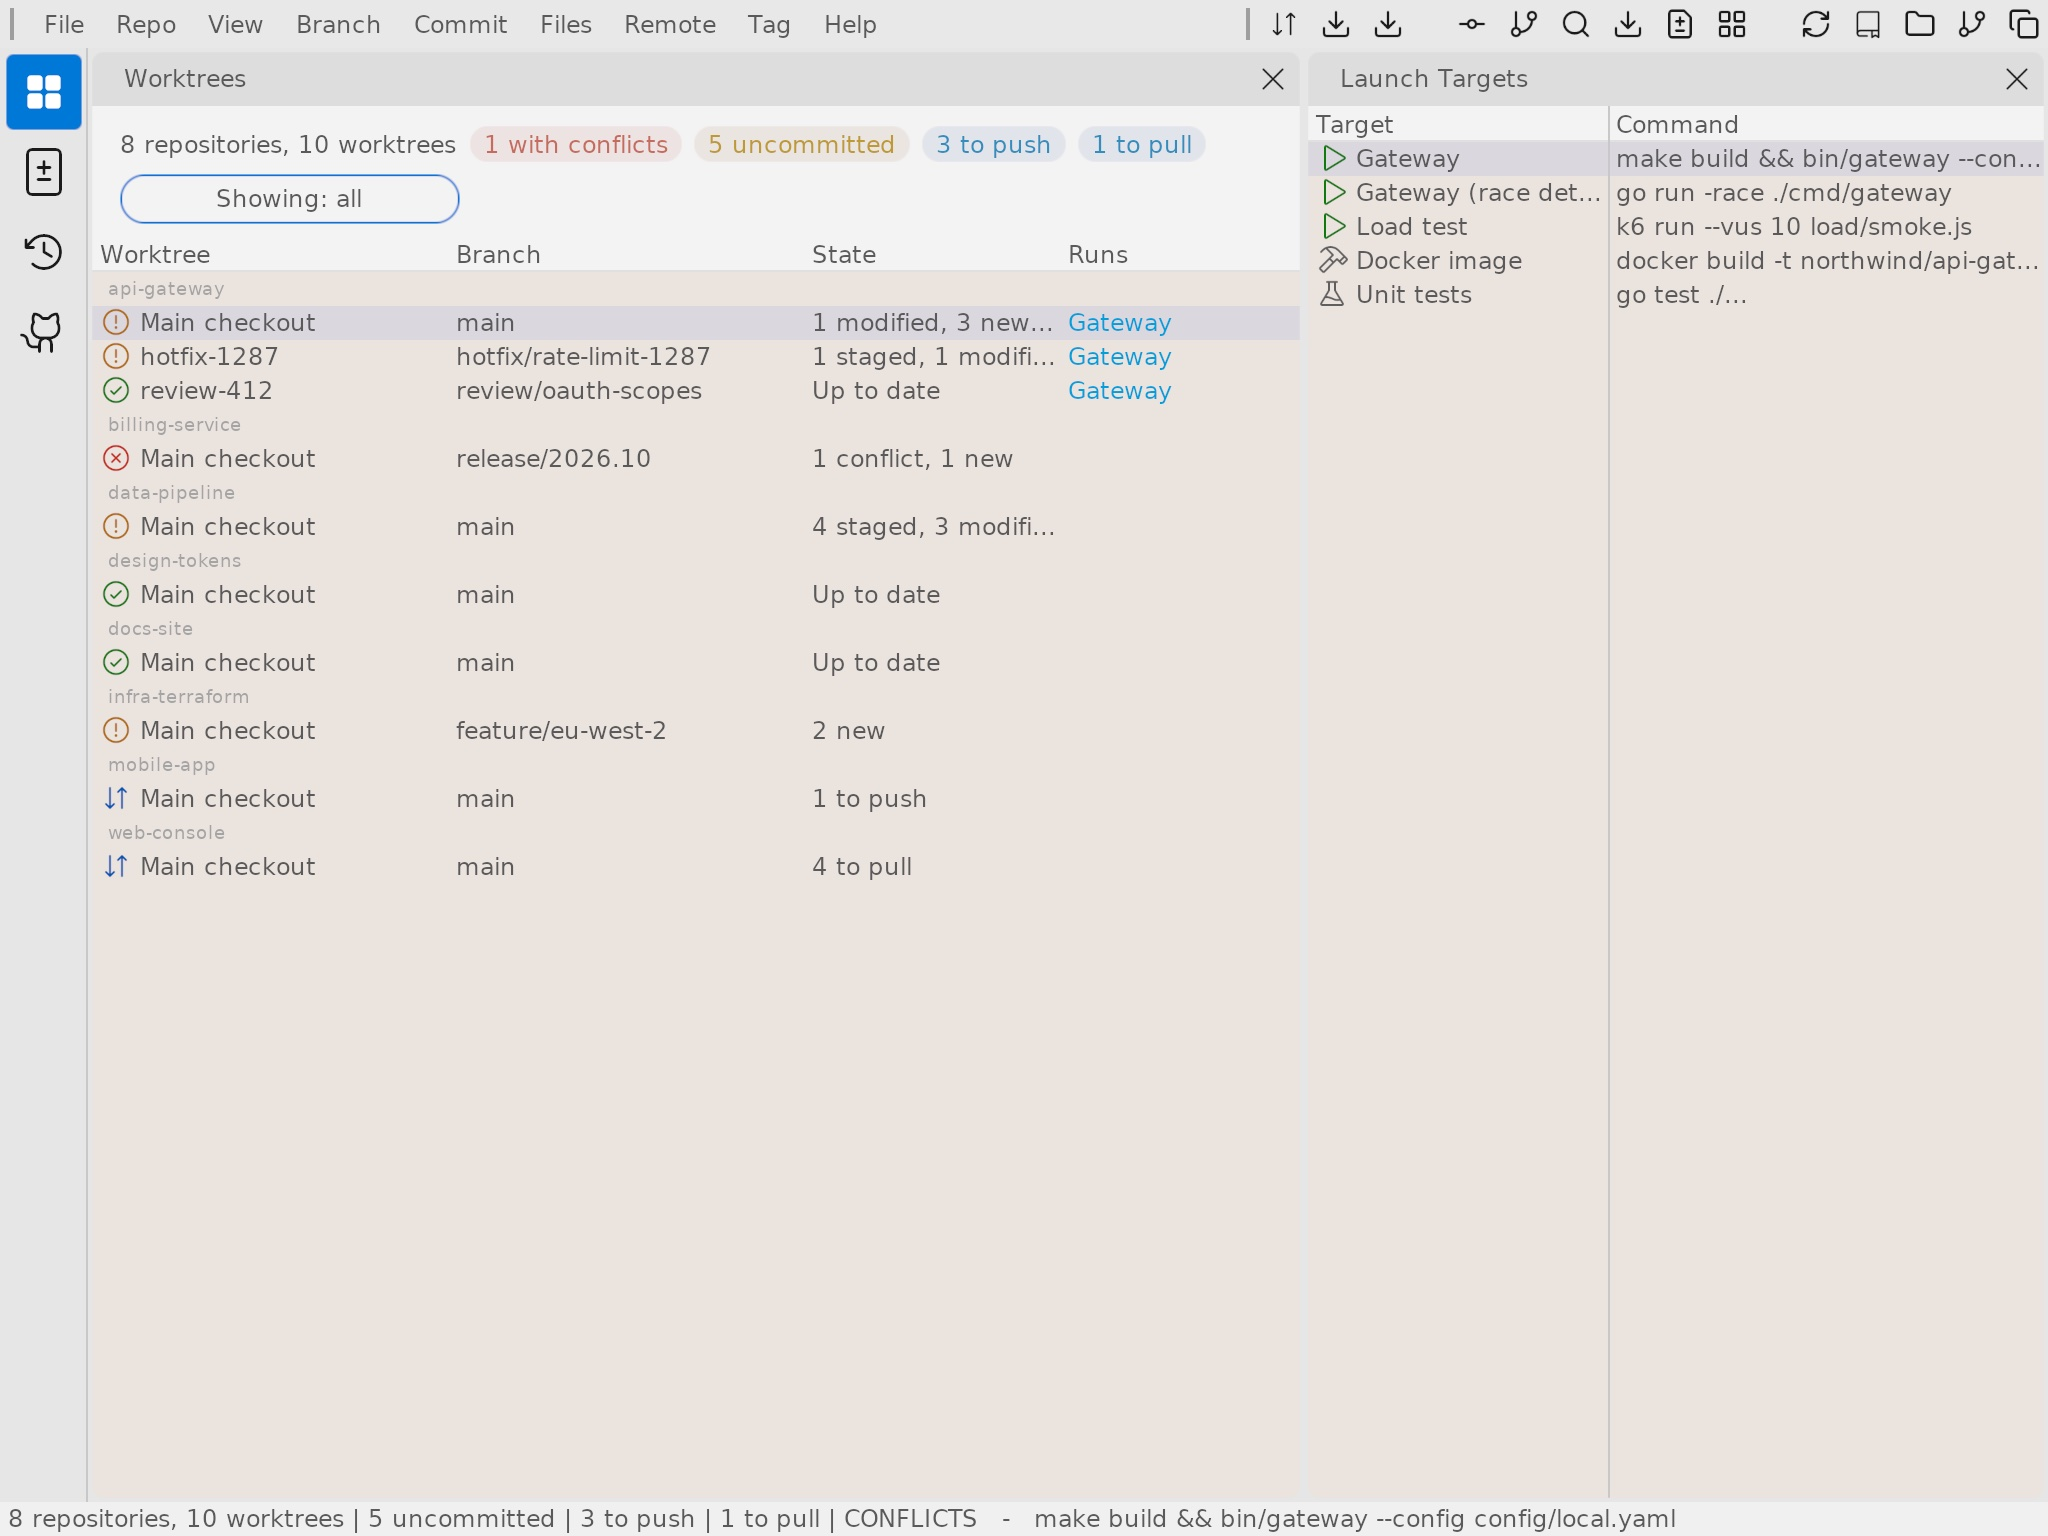
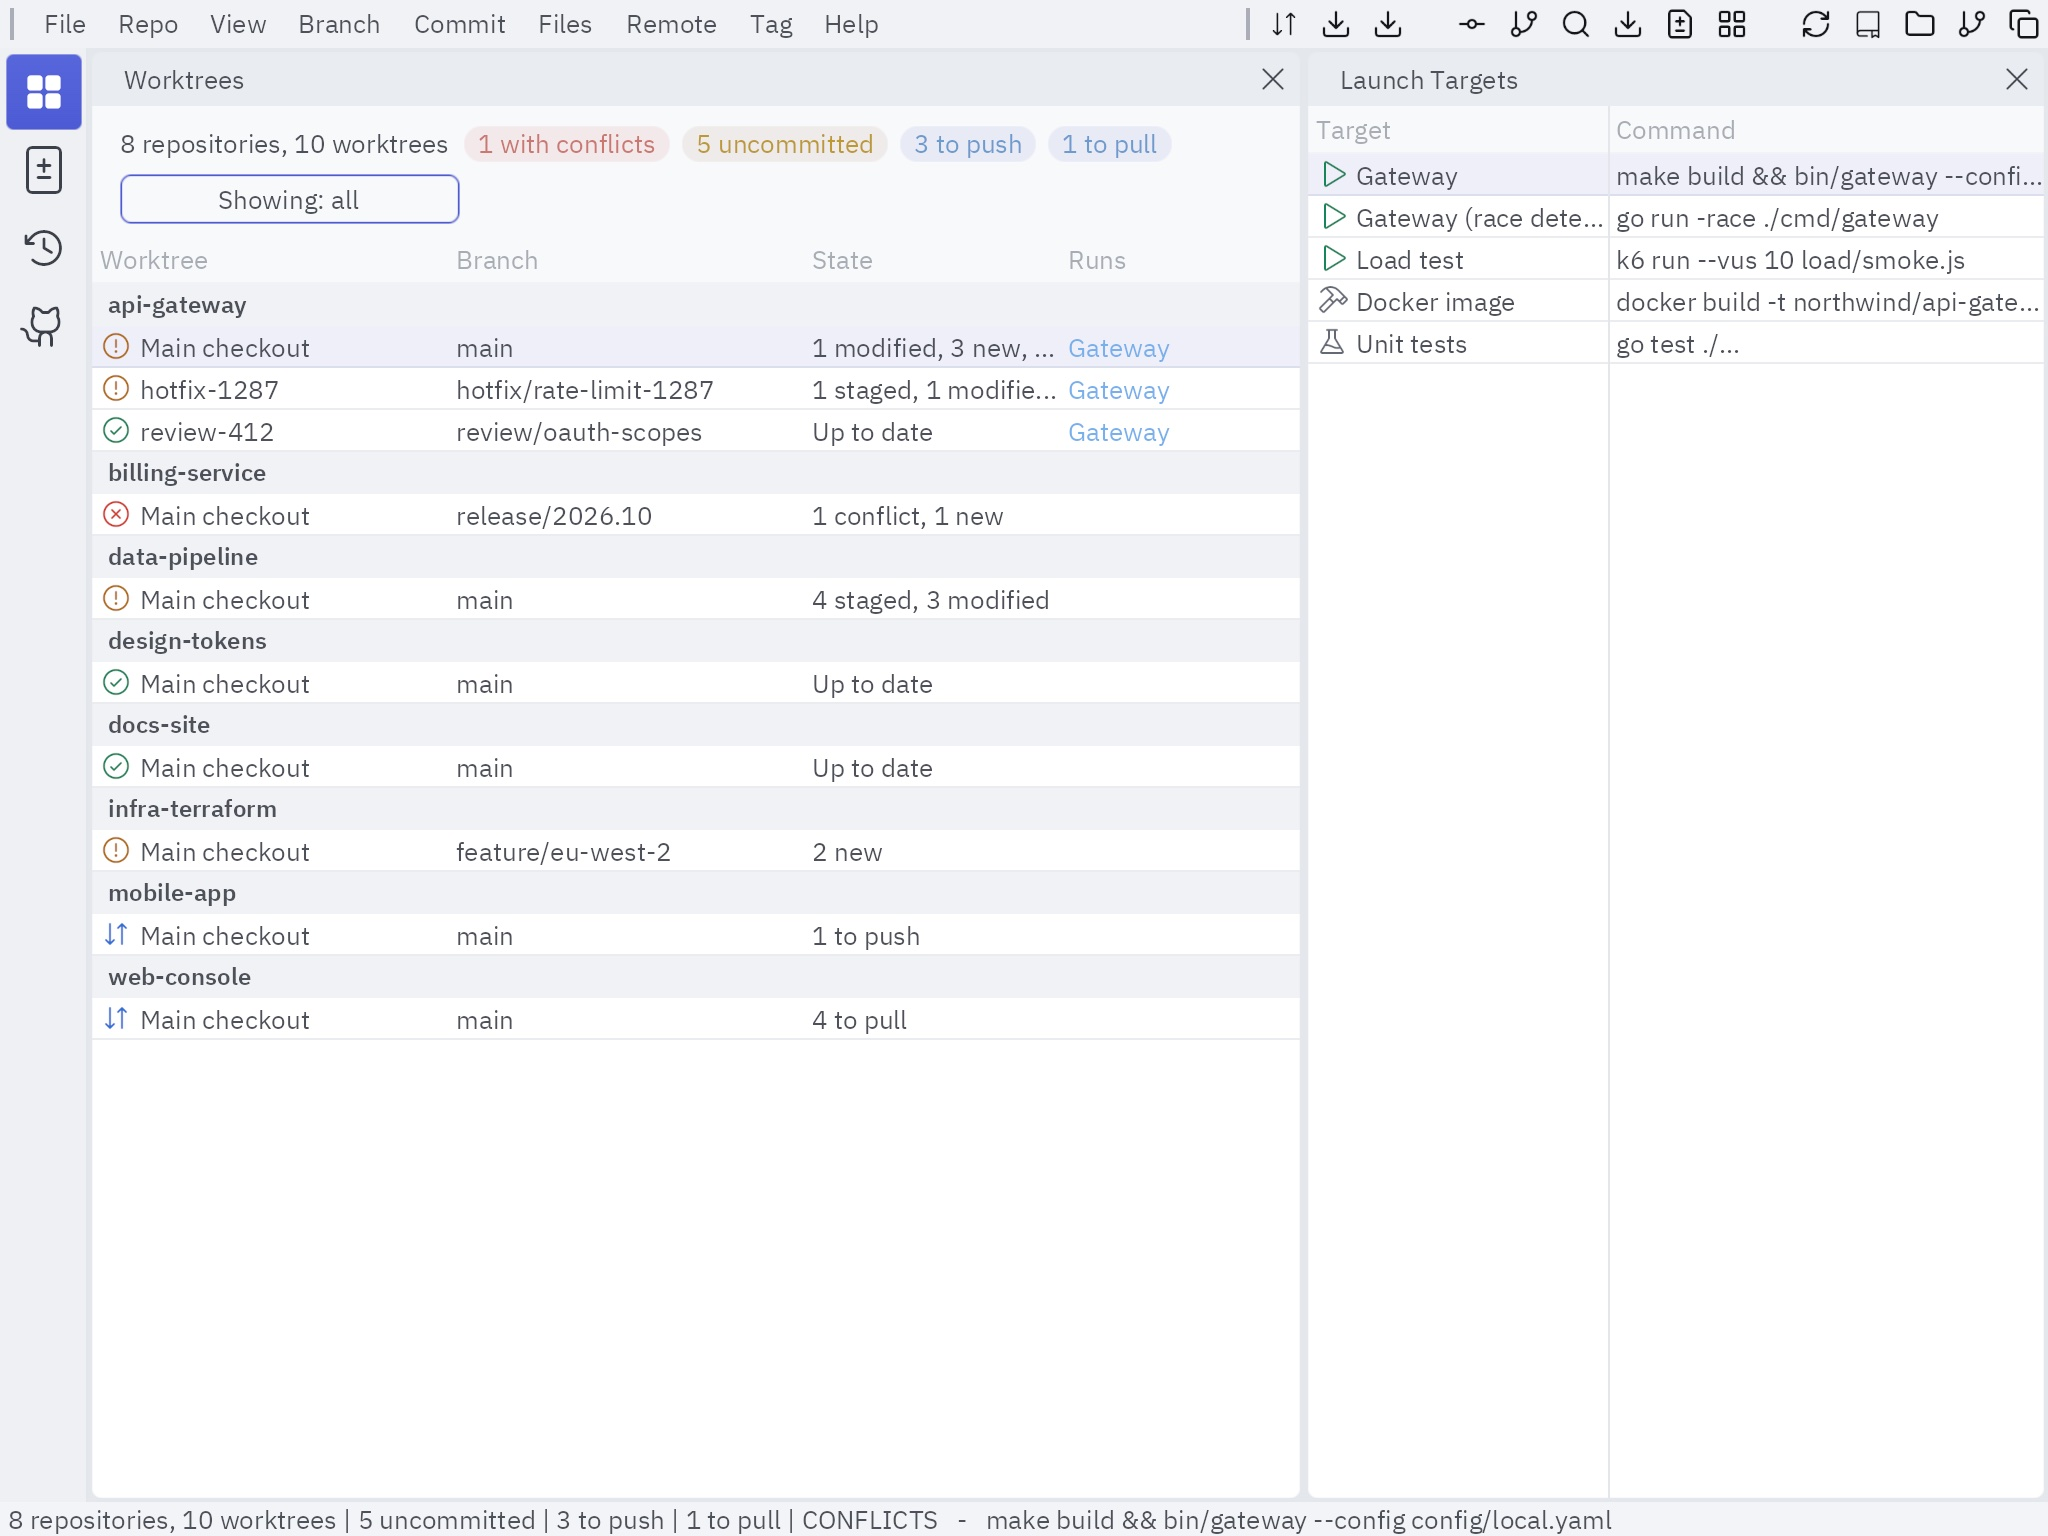
Polish Git Client on Porcelain: headed groups and quiet column titles
Git Client now builds with Porcelain (and Porcelain Dark by system
appearance) instead of the default Light palette's warm grey.

Two framework additions keep the styling in CSS: a FONT_HEADING text
role (--font-heading, IBM Plex Sans SemiBold 12 px; font="heading" in
.orion) and a TableView::group part (THEME_PART_LIST_GROUP) that paints
a grouped list's caption row and colours its text. ReportView draws
captions with them and takes its column-title colour from
TableView::header. Porcelain sets the group band, normal-ink headings
and secondary column titles; other themes keep secondary captions.

diff --git a/orion/themes/base.css b/orion/themes/base.css
@@ -92,6 +92,7 @@ Toolbar::grip   { content: grip; fill: var(--text-disabled); }
 TableView::header  { background: var(--control-bg); border-bottom: 1px solid var(--button-inner); }
 TableView::divider { background: var(--dark-edge); }
 TableView::divider:hover { background: var(--accent); }
+TableView::group   { color: var(--text-secondary); }
 TableView::row:hover   { background: var(--button-hover); }
 TableView::row:checked, TableView::row:active { background: var(--selection); }
 TableView::row:checked { color: var(--accent-text); }
@@ -167,4 +168,5 @@ Scrollbar::thumb:disabled { background: var(--text-disabled); }
   --font-smallest: 400 11px "IBM Plex Sans";   /* captions in dense views */
   --font-title:    600 18px "IBM Plex Sans";   /* a window title in its toolbar */
   --font-display:  600 24px "IBM Plex Sans";   /* the one figure a view exists to show */
+  --font-heading:  600 12px "IBM Plex Sans";   /* group captions and section headings */
 }

diff --git a/orion/themes/porcelain.css b/orion/themes/porcelain.css
@@ -128,3 +128,7 @@ Card {
 /* Business tables: 21 px rows under a 24 px header, ruled by hairlines. */
 TableView::header { min-height: 24px; }
 TableView::row    { min-height: 21px; --divider-width: 1px; }
+
+/* Group captions read as headings on a quiet band; column titles step back. */
+TableView::group  { background: var(--window-dark-bg); color: var(--text-normal); }
+TableView::header { color: var(--text-secondary); }

diff --git a/orion/themes/classic.css b/orion/themes/classic.css
@@ -58,6 +58,7 @@
   --font-smallest: none;
   --font-title: none;
   --font-display: none;
+  --font-heading: none;
 
   --raised-border: var(--light-edge) var(--dark-edge) var(--dark-edge) var(--light-edge);
   --sunken-border: var(--dark-edge) var(--light-edge) var(--light-edge) var(--dark-edge);

diff --git a/orion/user/text.c b/orion/user/text.c
@@ -37,6 +37,7 @@ static struct {
   font_atlas_t smallest;
   font_atlas_t title;
   font_atlas_t display;
+  font_atlas_t heading;
   bool ready;
 } text_state = {0};
 
@@ -47,6 +48,7 @@ static inline font_atlas_t *font_for_role(ui_font_t font) {
   if (font == FONT_SMALLEST) return &text_state.smallest;
   if (font == FONT_TITLE) return &text_state.title;
   if (font == FONT_DISPLAY) return &text_state.display;
+  if (font == FONT_HEADING) return &text_state.heading;
   if (font == FONT_SMALL) return &text_state.small;
   return &text_state.big;
 }
@@ -105,14 +107,14 @@ static bool load_atlas(font_atlas_t *atlas, const char *path, float em_size) {
 // SemiBold, Bold, ...; a 400 face may also be <Family>.ttf). Sizes are desktop
 // logical pixels, scaled for the platform. C themes and missing faces use DejaVu.
 
-#define TEXT_ROLES 5
+#define TEXT_ROLES 6
 static const char *const k_text_role_vars[TEXT_ROLES] = {
-  "--font-system", "--font-small", "--font-smallest", "--font-title", "--font-display",
+  "--font-system", "--font-small", "--font-smallest", "--font-title", "--font-display", "--font-heading",
 };
 
 static font_atlas_t *text_atlas(int role) {
   font_atlas_t *atlases[TEXT_ROLES] = {&text_state.big, &text_state.small, &text_state.smallest,
-                                       &text_state.title, &text_state.display};
+                                       &text_state.title, &text_state.display, &text_state.heading};
   return atlases[role];
 }
 
@@ -127,9 +129,9 @@ static float text_platform_scale(void) {
 }
 
 static void text_default_face(int role, char *path, size_t n, float *size) {
-  static const float sizes[TEXT_ROLES] = {12.0f, 12.0f, 9.0f, 18.0f, 24.0f};
+  static const float sizes[TEXT_ROLES] = {12.0f, 12.0f, 9.0f, 18.0f, 24.0f, 12.0f};
   snprintf(path, n, "%s/../share/orion/fonts/%s", ui_get_exe_dir(),
-           role >= 3 ? "DejaVuSans-Bold.ttf" : "DejaVuSans.ttf");
+           role >= 3 ? "DejaVuSans-Bold.ttf" : "DejaVuSans.ttf");   // titles, figures and headings are bold
   *size = sizes[role] * text_platform_scale();
 }
 
@@ -595,6 +597,9 @@ void shutdown_text_rendering(void) {
 
   font_cache_destroy(text_state.display.cache);
   R_MeshDestroy(&text_state.display.mesh);
+
+  font_cache_destroy(text_state.heading.cache);
+  R_MeshDestroy(&text_state.heading.mesh);
 
   memset(&text_state, 0, sizeof(text_state));
 }

diff --git a/orion/commctl/reportview.c b/orion/commctl/reportview.c
@@ -140,7 +140,7 @@ static void report_paint(window_t *win, reportview_data_t *data) {
   if (first_row < 0) first_row = 0;
   if (last_row > (int)data->count) last_row = (int)data->count;
 
-  uint32_t hdr_fg = get_sys_color(brTextNormal);
+  uint32_t hdr_fg = theme_foreground(THEME_PART_HEADER, CTRL_NORMAL);
 #if !REPORTVIEW_RESIZE_FULL_HEIGHT
   uint32_t sep_col = get_sys_color(brDarkEdge);
 #endif
@@ -151,14 +151,16 @@ static void report_paint(window_t *win, reportview_data_t *data) {
   if (frame_radius > 0) set_clip_rounded_rect(win, cr, frame_radius);
   fill_rect(bg_col, rect_trim_top(cr, header_h));
   ctrl_state_t selection = report_selection_state(win);
-  // Section captions span the columns, in secondary text above their rows.
+  // Section captions span the columns above their rows, styled as the list's group part.
+  uint32_t group_fg = theme_foreground(THEME_PART_LIST_GROUP, CTRL_NORMAL);
   for (int row = first_row; data->has_sections && row <= last_row && row < (int)data->count; row++) {
     if (!data->items[row].section) continue;
     int y = window_scroll_rect_to_client(win, report_item_rect(win, data, row)).y - entry_h;
     if (y + entry_h <= header_h || y >= body_bottom) continue;
     set_clip_rect(win, (irect16_t){0, header_h, eff_w, MAX(0, body_bottom - header_h)});
+    theme_draw(THEME_PART_LIST_GROUP, R(0, y, eff_w, entry_h), CTRL_NORMAL);
     irect16_t caption = {WIN_PADDING * 2, y, eff_w - WIN_PADDING * 4, entry_h};
-    draw_text_clipped(FONT_SMALLEST, data->items[row].section, &caption, get_sys_color(brTextSecondary), 0);
+    draw_text_clipped(FONT_HEADING, data->items[row].section, &caption, group_fg, 0);
   }
 
   // Rows ruled by hairlines, under the selection's face.

diff --git a/tools/orionc.c b/tools/orionc.c
@@ -1129,7 +1129,7 @@ static void emit_controls_ex(FILE *f, xmlNodePtr parent, const char *form, const
     const char *auto_flex = (elem(c, "space") || (elem(c, "multiedit") && sz.h <= 0)) ? " | WINDOW_FLEXSPACE" : "";
     snprintf(flags, sizeof(flags), "(%s)%s%s%s", resolved, enum_parse_token(a.v[A_ORIENT], kOrient, ARRAY_LEN(kOrient), WINDOW_STACK_VERTICAL) & WINDOW_STACK_HORIZONTAL ? " | WINDOW_STACK_HORIZONTAL" : "", auto_flex, control_size_flag(c));
     snprintf(spacing, sizeof(spacing), "%u", byte_attr(a.v[A_SPACING], ORIONC_DEFAULT_SPACING));
-    snprintf(font, sizeof(font), "%s", eq(a.v[A_FONT], "system") ? "FONT_SYSTEM" : eq(a.v[A_FONT], "smallest") ? "FONT_SMALLEST" : eq(a.v[A_FONT], "title") ? "FONT_TITLE" : eq(a.v[A_FONT], "display") ? "FONT_DISPLAY" : "FONT_SMALL");
+    snprintf(font, sizeof(font), "%s", eq(a.v[A_FONT], "system") ? "FONT_SYSTEM" : eq(a.v[A_FONT], "smallest") ? "FONT_SMALLEST" : eq(a.v[A_FONT], "title") ? "FONT_TITLE" : eq(a.v[A_FONT], "display") ? "FONT_DISPLAY" : eq(a.v[A_FONT], "heading") ? "FONT_HEADING" : "FONT_SMALL");
     snprintf(color, sizeof(color), "%u", (unsigned)enum_parse_token(a.v[A_COLOR], kColors, ARRAY_LEN(kColors), brTextNormal));
     if (elem(c, "tableview")) snprintf(lparam, sizeof(lparam), "&%s_%s_tableview_params", form, nz(a.v[A_NAME], "unnamed"));
     if (elem(c, "activitybar") && (child(c, "toolbar") || xmlHasProp(c, BAD_CAST "labels"))) snprintf(lparam, sizeof(lparam), "&%s_%s_activity_params", form, nz(a.v[A_NAME], "unnamed"));

diff --git a/orion/commctl/form_loader.c b/orion/commctl/form_loader.c
@@ -656,7 +656,7 @@ static void fl_control(fl_build_t *b, int i, uint32_t parent) {
   fl_rect(lib, c, "padding", "layout_padding", &d->padding);
   fl_rect(lib, c, "margin", "layout_margin", &d->margin);
   d->parent = parent;
-  d->font = fl_eq(font, "system") ? FONT_SYSTEM : fl_eq(font, "smallest") ? FONT_SMALLEST : fl_eq(font, "title") ? FONT_TITLE : fl_eq(font, "display") ? FONT_DISPLAY : FONT_SMALL;
+  d->font = fl_eq(font, "system") ? FONT_SYSTEM : fl_eq(font, "smallest") ? FONT_SMALLEST : fl_eq(font, "title") ? FONT_TITLE : fl_eq(font, "display") ? FONT_DISPLAY : fl_eq(font, "heading") ? FONT_HEADING : FONT_SMALL;
   d->font_set = font != NULL;
   d->color = (uint8_t)FL_ENUM(color, kColors, brTextNormal);
   d->color_set = color != NULL;

diff --git a/orion/user/text.h b/orion/user/text.h
@@ -13,6 +13,7 @@ typedef enum {
   FONT_SMALLEST = 2,  // Compact labels in icon/grid views and dense controls
   FONT_TITLE  = 3,  // A window title shown in its toolbar (the caption font, larger)
   FONT_DISPLAY = 4, // Headline figures: the one figure a view exists to show (a start page's money total)
+  FONT_HEADING = 5, // Strong small text: group captions and section headings in lists and forms
 } ui_font_t;
 
 // ── Dynamic metric accessors ─────────────────────────────────────────────────

diff --git a/orion/user/theme_box.c b/orion/user/theme_box.c
@@ -103,6 +103,7 @@ static const struct { const char *element, *part, *classes; } k_part_selectors[T
   [THEME_PART_PAGE]                   = {"Page"},
   [THEME_PART_TITLE_TOOLBAR]          = {"Window", "title-toolbar"},
   [THEME_PART_COLUMN_DIVIDER]         = {"TableView", "divider"},
+  [THEME_PART_LIST_GROUP]             = {"TableView", "group"},
 };
 
 // ── value parsing ─────────────────────────────────────────────────────────────

diff --git a/orion/user/theme.h b/orion/user/theme.h
@@ -182,6 +182,7 @@ typedef enum {
   THEME_PART_PAGE,           // workspace behind a Page's pane tree
   THEME_PART_TITLE_TOOLBAR,  // merged caption and toolbar row (WINDOW_TITLETOOLBAR), past any sidebar
   THEME_PART_COLUMN_DIVIDER, // report/table column boundary; CTRL_HOVER marks the resize handle
+  THEME_PART_LIST_GROUP,     // a grouped list's caption row: its face, and its text colour as the foreground
   THEME_PART_COUNT,
 } theme_part_t;
 

diff --git a/orion/commctl/label.c b/orion/commctl/label.c
@@ -17,7 +17,7 @@
 static ui_font_t label_font(const window_t *win) {
   uint32_t packed = (uint32_t)(uintptr_t)(win ? win->userdata : NULL);
   ui_font_t font = (ui_font_t)((packed >> 8) & 0xffu);
-  return font <= FONT_DISPLAY ? font : FONT_SMALL;
+  return font <= FONT_HEADING ? font : FONT_SMALL;
 }
 
 static uint32_t label_color(const window_t *win) {

diff --git a/docs/styling.md b/docs/styling.md
@@ -77,7 +77,7 @@ apply to every part.
 |---|---|---|---|
 | `BUTTON` | `Button` | `LIST_ITEM` | `TableView::row` |
 | `FIELD` | `TextEdit` (`.multiline`) | `HEADER` | `TableView::header` |
-| `COMBOBOX`, `COMBOBOX_ARROW` | `ComboBox`, `ComboBox::arrow` | `COLUMN_DIVIDER` | `TableView::divider` |
+| `COMBOBOX`, `COMBOBOX_ARROW` | `ComboBox`, `ComboBox::arrow` | `COLUMN_DIVIDER`, `LIST_GROUP` | `TableView::divider`, `TableView::group` (a grouped list's caption row) |
 | `CHECKBOX` | `CheckBox::box` | `MENU_BAR`, `MENU_POPUP`, `MENU_ITEM` | `MenuBar`, `Menu`, `Menu::item` |
 | `SEGMENTED_TRACK`, `SEGMENT` | `SegmentedControl`, `::segment` | `SEPARATOR` | `Separator` |
 | `TAB`, `TAB_BAR`, `TAB_PANE` | `TabView::tab`, `::bar`, `::pane` | `PAGE`, `PANEL`, `SURFACE`, `SIDEBAR` | `Page`, `Panel`, `Surface`, `Sidebar` |
@@ -127,6 +127,7 @@ theme changes; `base.css` sets IBM Plex Sans:
 | `--font-smallest` | `FONT_SMALLEST` | Captions in dense views |
 | `--font-title` | `FONT_TITLE` | A window title in its toolbar |
 | `--font-display` | `FONT_DISPLAY` | The one figure a view exists to show |
+| `--font-heading` | `FONT_HEADING` | Group captions and section headings |
 
 The face is `share/orion/fonts/<Family without spaces>-<Weight>.ttf`, with
 weights named Thin, ExtraLight, Light, Regular, Medium, SemiBold, Bold,
